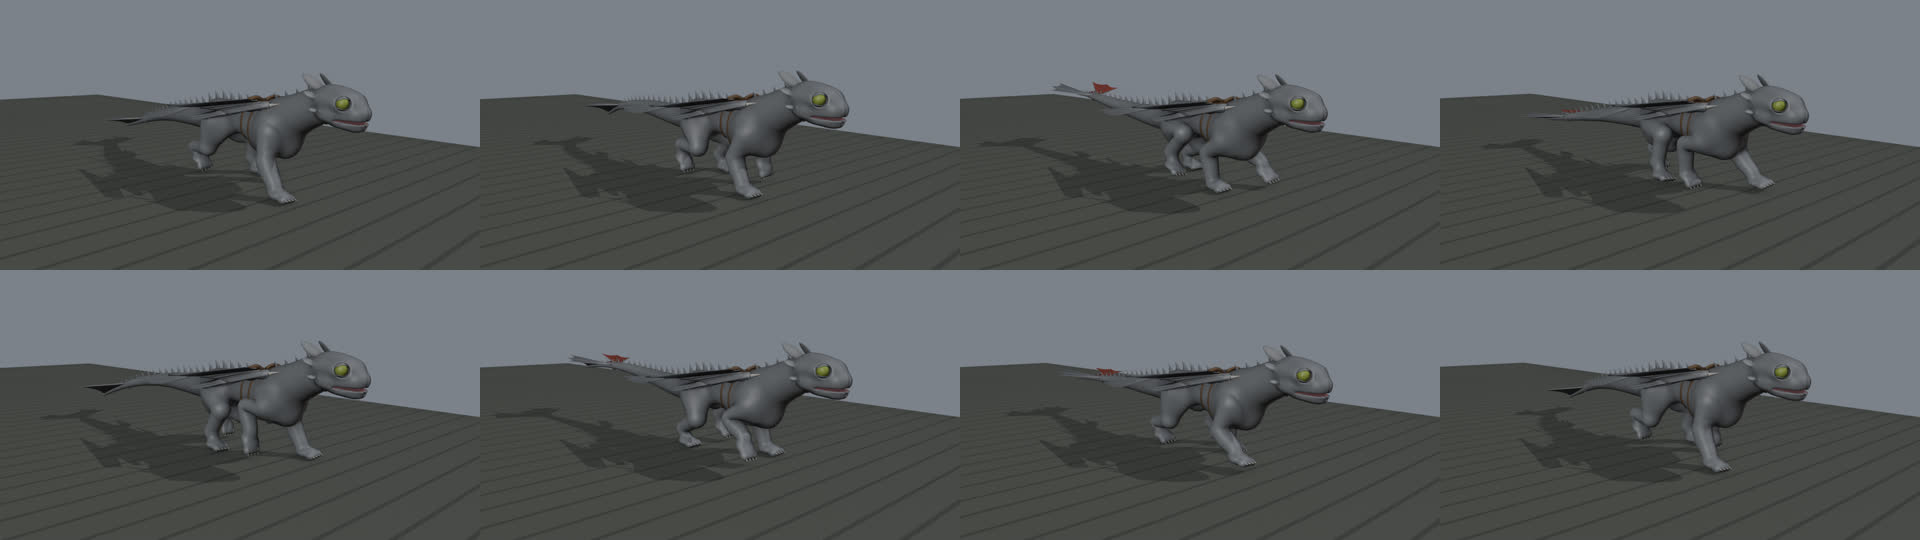
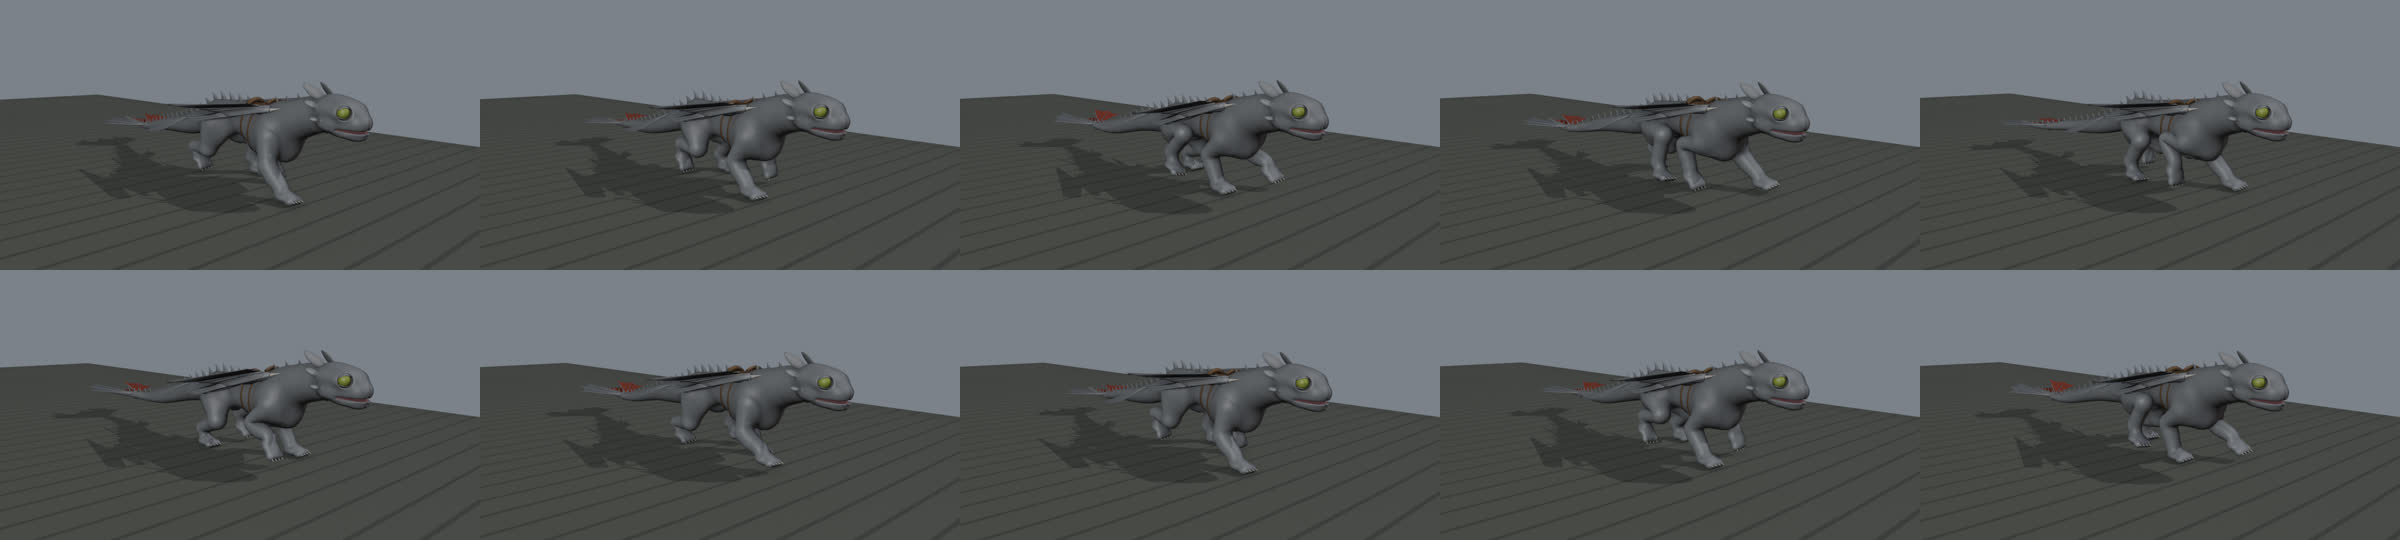
feat(loco): walk and trot on the body line too — panther carriage, wave down the tail
The walk and trot now lay their spine and tail along the same kind of line as
the gallop: a bob per step at the neck base that every later joint repeats,
delayed by its distance behind. Their strides (1.3 m / 2 m) are far shorter
than the body, so a world-fixed wave would ripple the spine and tail like a
snake; the line instead runs back along the body over waveLength = 5 m per
stride (the gallop keeps the stride, fixed in the world). Shoulders and hips
rock in turn and the tail carries the wave on.

- path channels accept (amplitude, harmonic, phase) as well as keys; phases
  keep the old pelvis bob timing.
- panther carriage: walk 3 cm / trot 3 cm lower, neck long and low, head
  levelled (30 % of its bob kept), tail hung low through the middle with the
  tip turned up (tailDroop, path mode).
- trot front contact moved forward for the lower body. All hinges inside
  anatomy.LIMBS, stance toe miss < 1 mm. Gallop unchanged.

Claude-Session: https://claude.ai/code/session_01GjYwpcVsN48k68Do6J5W4b

Changed region(s): [[0.0312, 0.6519, 0.9688, 0.8889], [0.0312, 0.1481, 0.9688, 0.3852], [0.0312, 0.6519, 0.0625, 0.6815]]

diff --git a/pipeline/blender/toothless/locomotion.py b/pipeline/blender/toothless/locomotion.py
@@ -37,8 +37,12 @@ WALK = {
     "hind": {"centre": 0.48, "lift": 0.11, "land": 0.5, "peel": 0.6,
              "distal": [(0.0, 35), (0.34, 33), (0.6, 38), (0.68, 46), (0.78, 10), (0.88, 25), (0.96, 38)],
              "toes": [(0.0, 79), (0.52, 79), (0.68, 40), (0.78, 22), (0.9, 66), (0.96, 85)]},
-    "body": {"height": 0.98, "lean": -0.03, "bob": (0.014, 2, -0.6), "pitch": (0.012, 2, -0.3), "roll": 0.035,
-             "flex": 0.03, "tail": 0.07},
+    "body": {"height": 0.95, "lean": -0.03, "bob": (0.0, 1, 0.0), "pitch": (0.0, 1, 0.0), "roll": 0.035,
+             "flex": 0.03, "tail": 0.07,
+             # the body line: a bob per step (amplitude m, harmonic, phase at the neck base) running back along the
+             # body over waveLength m per stride, so shoulders and hips rock in turn and the tail carries the wave on
+             "path": (0.022, 2, 3.12), "waveLength": 5.0, "neckDrop": 0.05, "headLevel": 0.3, "follow": 0.5,
+             "tailDroop": (0.22, 0.12)},
 }
 
 
@@ -51,15 +55,17 @@ def _keys(duty, stance, swing):
 # Trot: diagonal pairs (LH + RF, RH + LF), a short float between pairs, the bob twice a cycle and little roll.
 TROT = {
     "frames": 20, "speed": 3.0, "duty": 0.45, "offsets": (0.0, 0.5, 0.5, 0.0),
-    "front": {"centre": -0.86, "lift": 0.17, "land": 0.55, "peel": 0.6,
+    "front": {"centre": -0.97, "lift": 0.17, "land": 0.55, "peel": 0.6,
               "distal": _keys(0.45, [(0, 42), (0.45, 48), (0.8, 50)], [(0, 30), (0.3, -5), (0.62, 15), (0.85, 40)]),
               "toes": _keys(0.45, [(0, 79), (0.78, 79)], [(0, 45), (0.3, 15), (0.7, 62), (0.88, 86)]),
               "scapula": _keys(0.45, [(0, 13), (0.5, 1)], [(0, -12), (0.5, 5), (0.85, 14)])},
     "hind": {"centre": 0.46, "lift": 0.14, "land": 0.55, "peel": 0.6,
              "distal": _keys(0.45, [(0, 35), (0.5, 33), (0.88, 40)], [(0, 46), (0.31, 10), (0.625, 25), (0.875, 38)]),
              "toes": _keys(0.45, [(0, 79), (0.74, 79)], [(0, 40), (0.31, 22), (0.69, 66), (0.875, 85)])},
-    "body": {"height": 0.97, "lean": -0.03, "bob": (0.022, 2, -0.9), "pitch": (0.01, 2, -0.6), "roll": 0.015,
-             "flex": 0.018, "tail": 0.05, "tailLift": 0.03},
+    "body": {"height": 0.94, "lean": -0.03, "bob": (0.0, 1, 0.0), "pitch": (0.0, 1, 0.0), "roll": 0.015,
+             "flex": 0.018, "tail": 0.05,
+             "path": (0.032, 2, 2.82), "waveLength": 5.0, "neckDrop": 0.06, "headLevel": 0.3, "follow": 0.5,
+             "tailDroop": (0.2, 0.12)},
 }
 
 # Gallop: a bounding, pouncing rotary gallop (LH, RH, RF, LF). The hinds land under the chest with the back bowed
@@ -128,6 +134,9 @@ def _smooth(keys, t, n):
 def _chan(body, name, t):
     """A keyed body channel at cycle phase t: smoothed when the body asks for it (body["smooth"] harmonics)."""
     keys = body[name]
+    if isinstance(keys, tuple):                       # (amplitude, harmonic, phase) on a cosine
+        amp, h, ph = keys
+        return amp * math.cos(2 * math.pi * h * t + ph)
     return _smooth(keys, t % 1.0, body["smooth"]) if body.get("smooth") else _pchip(keys, t)
 
 
@@ -162,8 +171,8 @@ LEAD_Y = A.NECK[0][1][1]          # the neck base: the body line's leading point
 def _line(cyc, t, y):
     """The travelling line's height offset at rest-y `y` (m, +Y behind) and cycle phase t: what the neck base had
     (y - LEAD_Y) / stride of a cycle earlier. The wave stands still in the world while the body runs through it."""
-    stride = cyc["speed"] * cyc["frames"] / FPS
-    return cyc["body"].get("pathGain", 1.0) * _chan(cyc["body"], "path", t - (y - LEAD_Y) / stride)
+    wave = cyc["body"].get("waveLength") or cyc["speed"] * cyc["frames"] / FPS    # default: the stride (fixed in
+    return cyc["body"].get("pathGain", 1.0) * _chan(cyc["body"], "path", t - (y - LEAD_Y) / wave)  # the world)
 
 
 def leg_targets(cyc, kind, p, off=0.0):
@@ -397,8 +406,17 @@ def _path_body(rig, cyc, t, bones):
     data = rig.data.bones
     pelvis_rest = data["pelvis"].head_local
 
+    tail0, tail1 = data["tail_01"].head_local.y, data["tail_12"].tail_local.y
+    droop, curl = b.get("tailDroop", (0.0, 0.0))
+
+    def carriage(y):
+        """The tail hung low through its middle and its tip turned up (m below its rest line)."""
+        u = max(0.0, (y - tail0) / (tail1 - tail0))
+        return -droop * math.sin(math.pi * min(1.0, u / 1.2)) + curl * max(0.0, (u - 0.6) / 0.4) ** 2
+
     def target(p):
-        return (p.z + (b["height"] - pelvis_rest.z) + b["lean"] * (pelvis_rest.y - p.y) + _line(cyc, t, p.y))
+        return (p.z + (b["height"] - pelvis_rest.z) + b["lean"] * (pelvis_rest.y - p.y) + _line(cyc, t, p.y)
+                + carriage(p.y))
     zp = target(pelvis_rest)
     nxt = data["pelvis"].tail_local
     run = pelvis_rest.y - nxt.y
